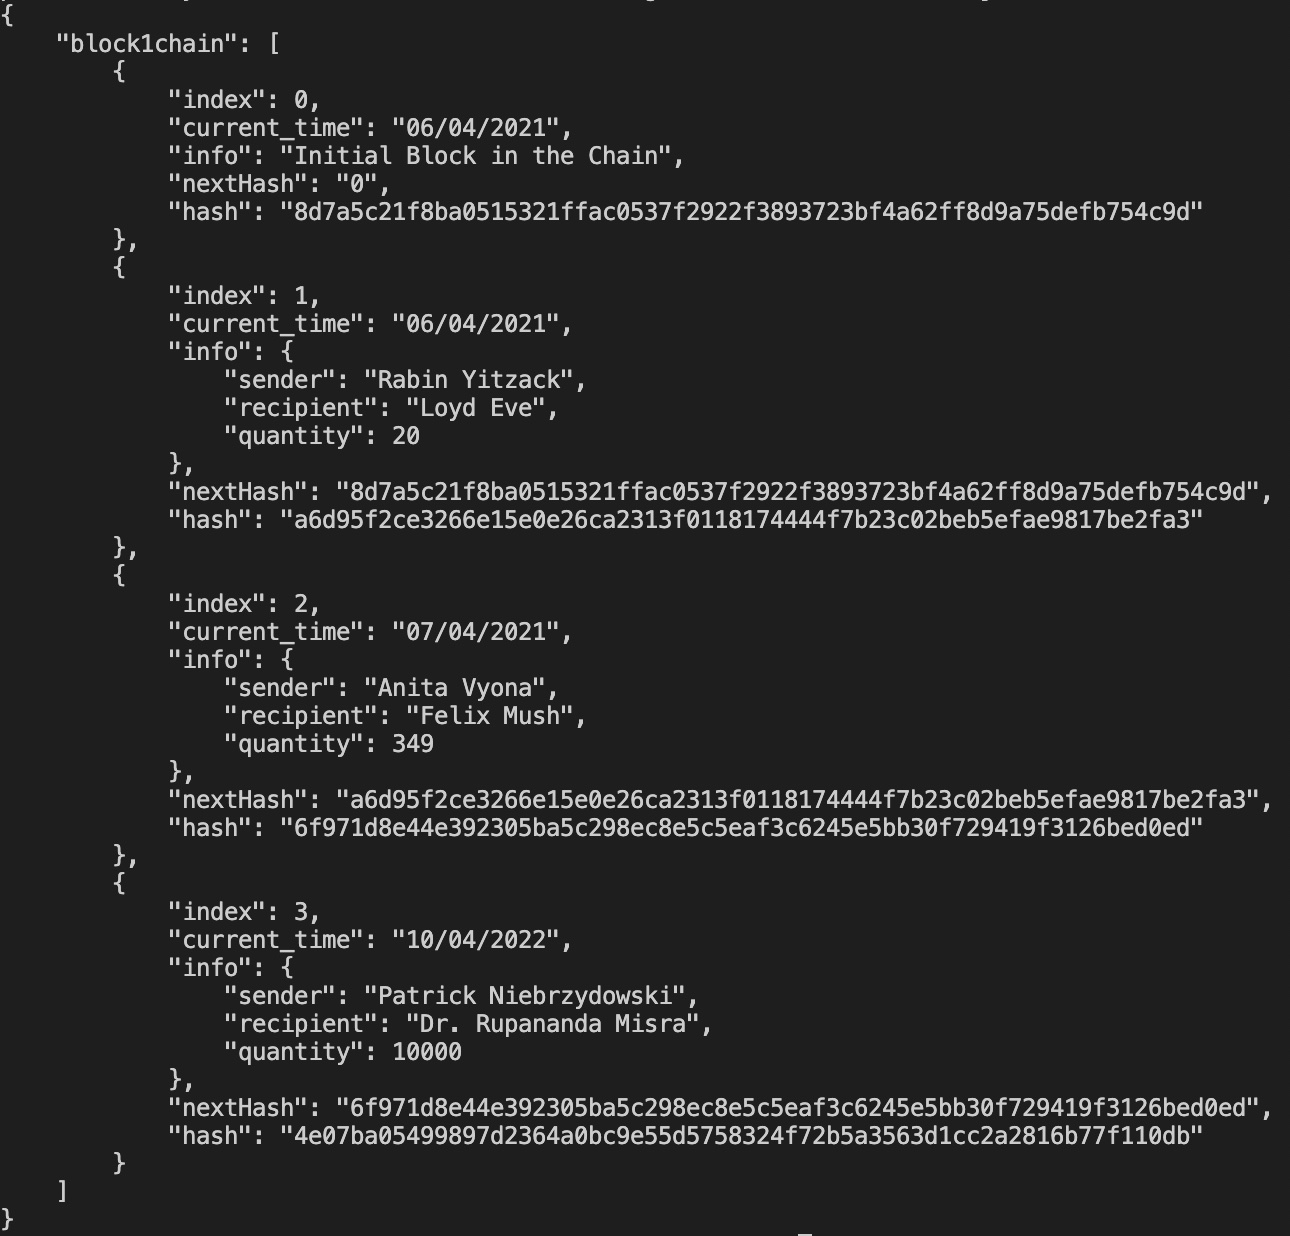
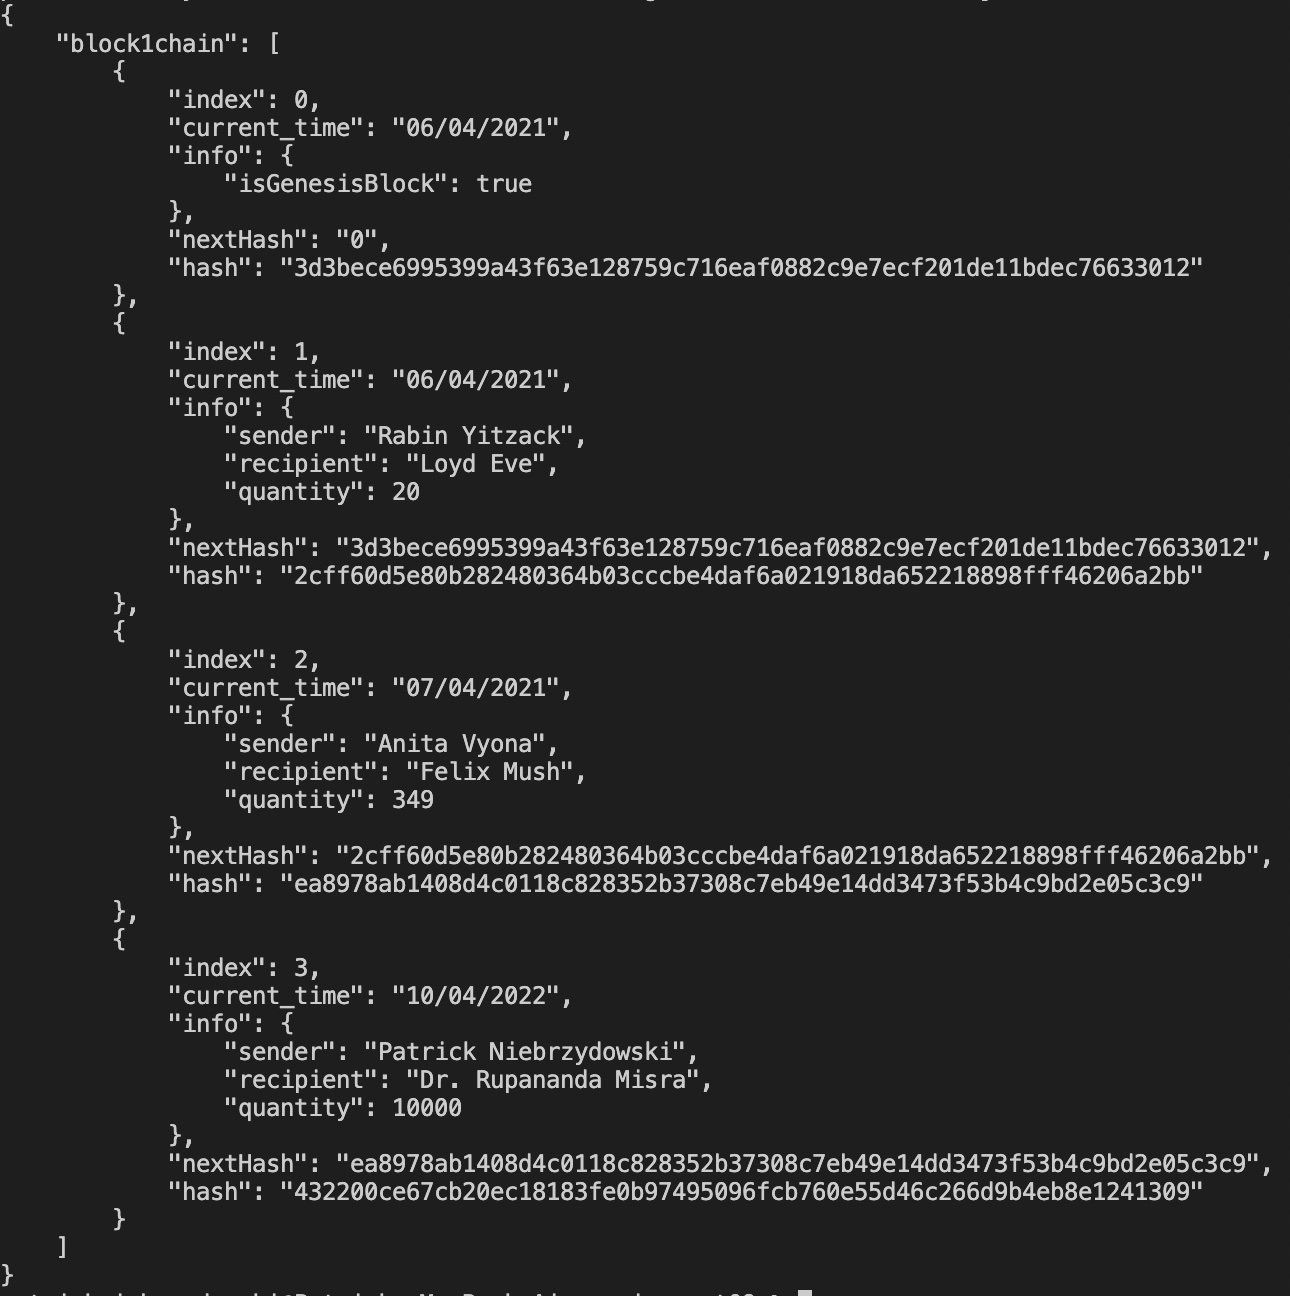
use a proper typing for genesis block

Changed region(s): [[0.062, 0.0307, 0.9922, 0.8608], [0.124, 0.8608, 0.9612, 0.9223], [0.0, 0.9838, 0.031, 1.0]]

diff --git a/assignment09/thecoin.ts b/assignment09/thecoin.ts
@@ -6,10 +6,14 @@ interface BlockInfo {
   readonly quantity: number;
 }
 
+interface GenesisBlockInfo {
+  readonly isGenesisBlock: true;
+}
+
 interface Block {
   index: number;
   current_time: string;
-  info: BlockInfo | string;
+  info: BlockInfo | GenesisBlockInfo;
   nextHash?: string;
   hash?: string;
   computeHash: () => string;
@@ -18,11 +22,7 @@ interface Block {
 class BlockCrypto implements Block {
   hash?: string | undefined;
   
-  constructor(readonly index: number, readonly current_time: string, readonly info: BlockInfo | string, readonly nextHash = " ") {
-    this.index = index;
-    this.current_time = current_time;
-    this.info = info;
-    this.nextHash = nextHash;
+  constructor(readonly index: number, readonly current_time: string, readonly info: BlockInfo | GenesisBlockInfo, readonly nextHash = " ") {
     this.hash = this.computeHash();
   }
   computeHash() {
@@ -37,7 +37,7 @@ class Blockchain {
     this.block1chain = [this.initGenesisBlock()];
   }
   initGenesisBlock() {
-    return new BlockCrypto(0, "06/04/2021", "Initial Block in the Chain", "0");
+    return new BlockCrypto(0, "06/04/2021", {isGenesisBlock: true}, "0");
   }
   latestBlock() {
     return this.block1chain[this.block1chain.length - 1];

diff --git a/assignment09/thecoin.js b/assignment09/thecoin.js
@@ -10,10 +10,6 @@ class BlockCrypto {
         this.current_time = current_time;
         this.info = info;
         this.nextHash = nextHash;
-        this.index = index;
-        this.current_time = current_time;
-        this.info = info;
-        this.nextHash = nextHash;
         this.hash = this.computeHash();
     }
     computeHash() {
@@ -25,7 +21,7 @@ class Blockchain {
         this.block1chain = [this.initGenesisBlock()];
     }
     initGenesisBlock() {
-        return new BlockCrypto(0, "06/04/2021", "Initial Block in the Chain", "0");
+        return new BlockCrypto(0, "06/04/2021", { isGenesisBlock: true }, "0");
     }
     latestBlock() {
         return this.block1chain[this.block1chain.length - 1];
